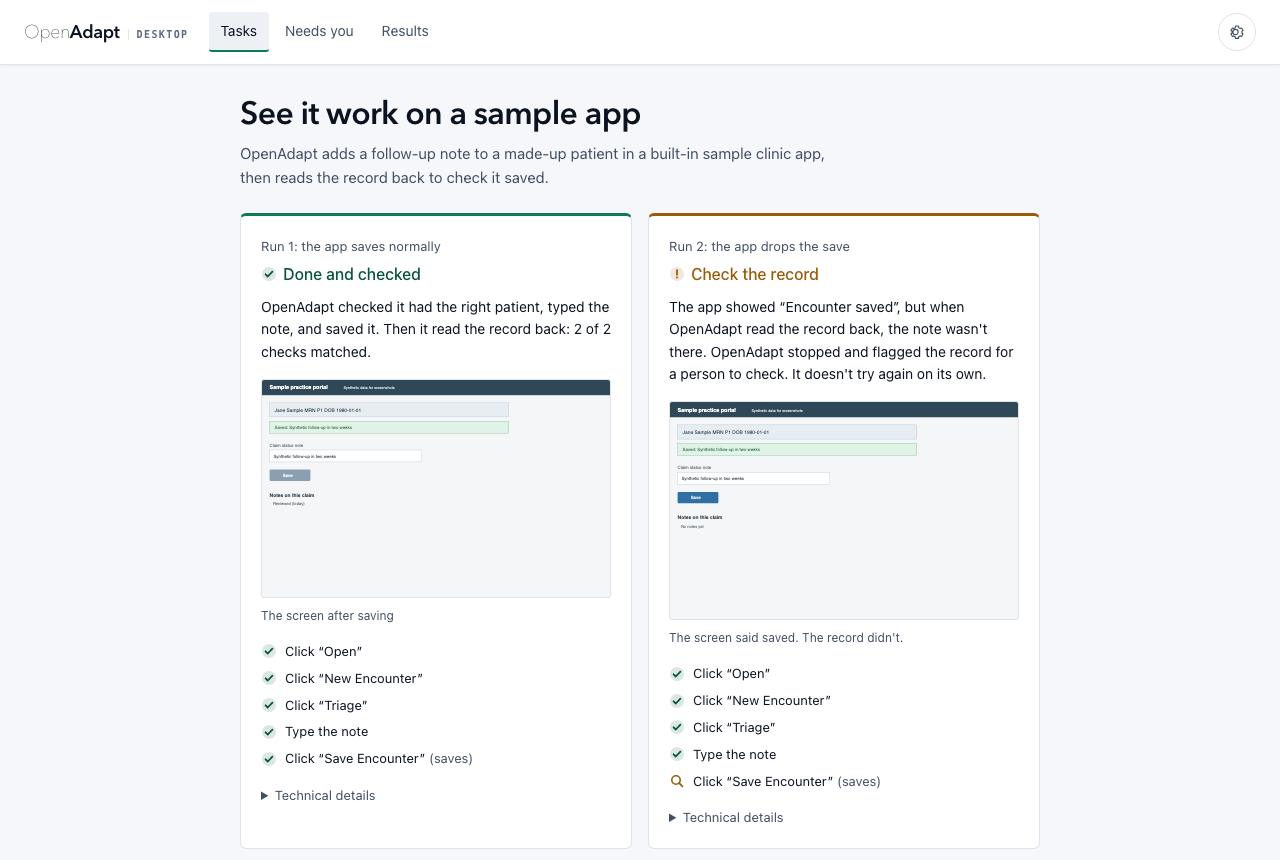
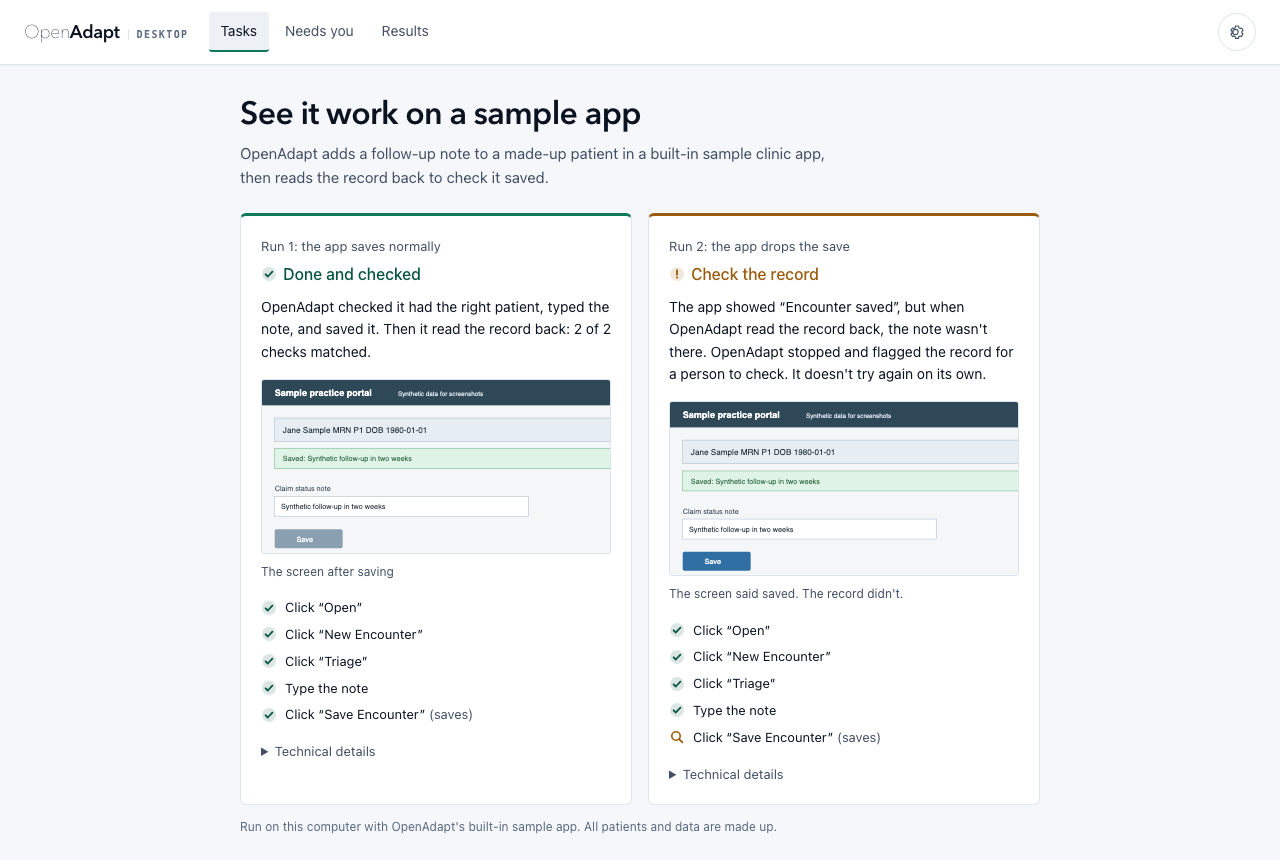
fix(ui): zoom the sample screens to the record area
The sample's saved-screen images now show the top of the app, where the
record and the saved banner are, instead of a mostly empty full screen.
README screenshots and their provenance hashes are refreshed.

Changed region(s): [[0.1875, 0.4233, 0.6875, 0.9674], [0.5, 0.4535, 0.8125, 0.6953]]

diff --git a/src/ui/simple.tsx b/src/ui/simple.tsx
@@ -202,6 +202,7 @@ export function ScreenCrop({
   focus,
   caption,
   provenance,
+  region,
 }: {
   dataUrl: string;
   width: number;
@@ -209,6 +210,8 @@ export function ScreenCrop({
   focus?: { x: number; y: number } | null;
   caption: string;
   provenance?: string;
+  /** "top": show the top-left of the screen, where most apps put the record. */
+  region?: "top";
 }) {
   const valid = width > 0 && height > 0;
   const hasFocus = Boolean(
@@ -221,11 +224,18 @@ export function ScreenCrop({
   );
   // With a stopped point, show a wide band of the screen around it, so the
   // question and its choices stay in view. Without one, show the whole screen.
-  const zoom = hasFocus ? 1.4 : 1;
+  const top = !hasFocus && region === "top";
+  const zoom = hasFocus ? 1.4 : top ? 1 / 0.6 : 1;
   const winW = valid ? width / zoom : 1;
-  const winH = valid ? (hasFocus ? Math.min(height, winW / 2.6) : height) : 1;
-  const fx = hasFocus && focus ? focus.x : width / 2;
-  const fy = hasFocus && focus ? focus.y : height / 2;
+  const winH = valid
+    ? hasFocus
+      ? Math.min(height, winW / 2.6)
+      : top
+        ? Math.min(height, winW / 2)
+        : height
+    : 1;
+  const fx = hasFocus && focus ? focus.x : top ? winW / 2 : width / 2;
+  const fy = hasFocus && focus ? focus.y : top ? winH / 2 : height / 2;
   const x0 = valid ? Math.min(width - winW, Math.max(0, fx - winW / 2)) : 0;
   const y0 = valid ? Math.min(height - winH, Math.max(0, fy - winH / 2)) : 0;
   return (

diff --git a/src/screens/Sample.tsx b/src/screens/Sample.tsx
@@ -51,6 +51,7 @@ function SampleRunCard({ run }: { run: SampleRun }) {
           width={run.screen.width ?? 0}
           height={run.screen.height ?? 0}
           caption={normal ? "The screen after saving" : "The screen said saved. The record didn't."}
+          region="top"
         />
       )}
       <ol className="sample-steps">
